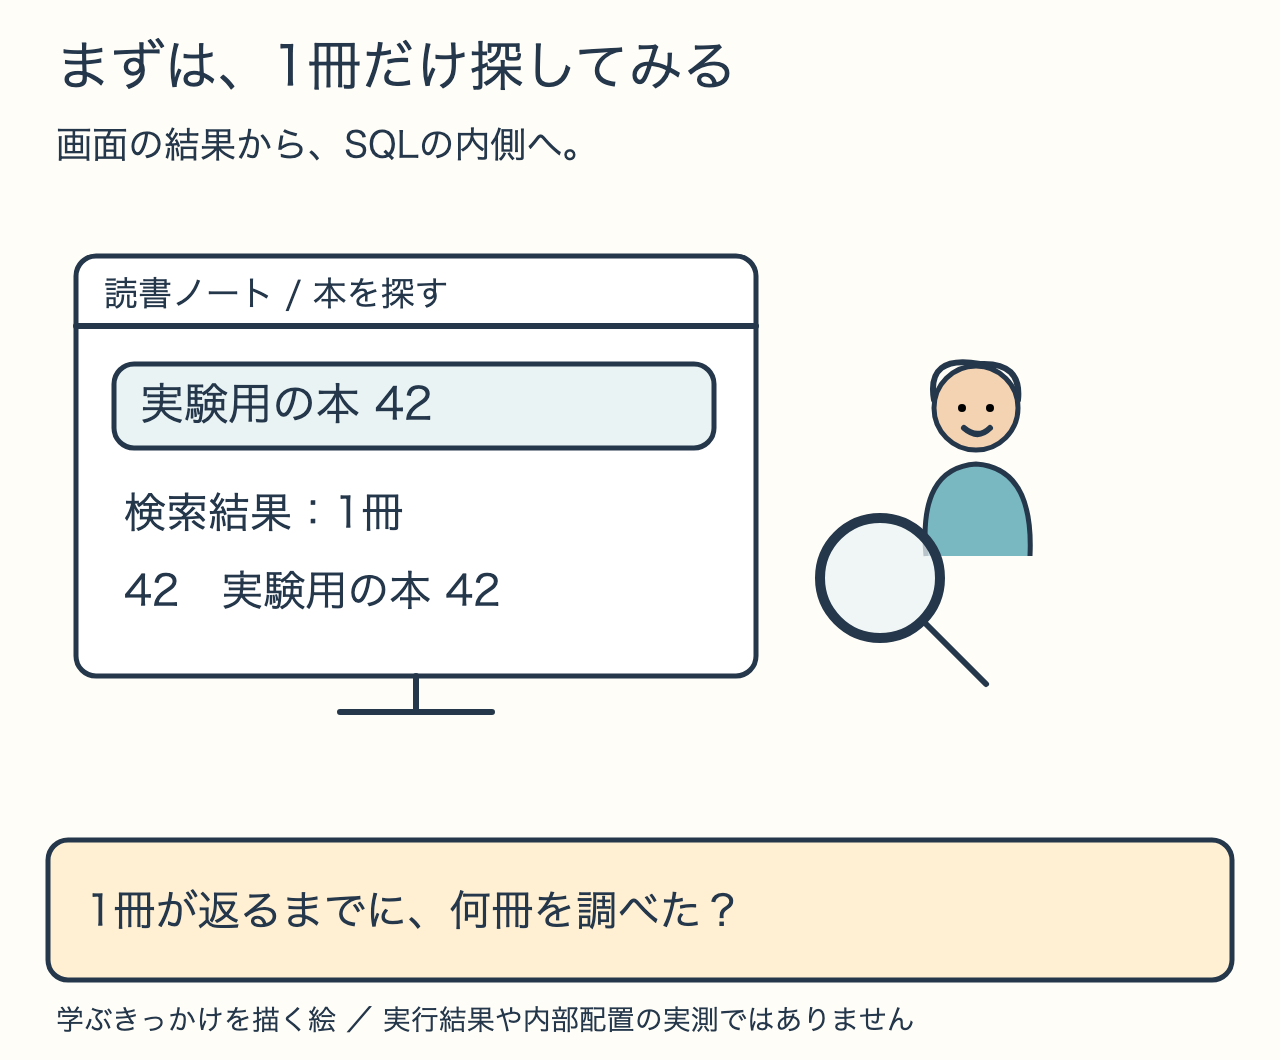
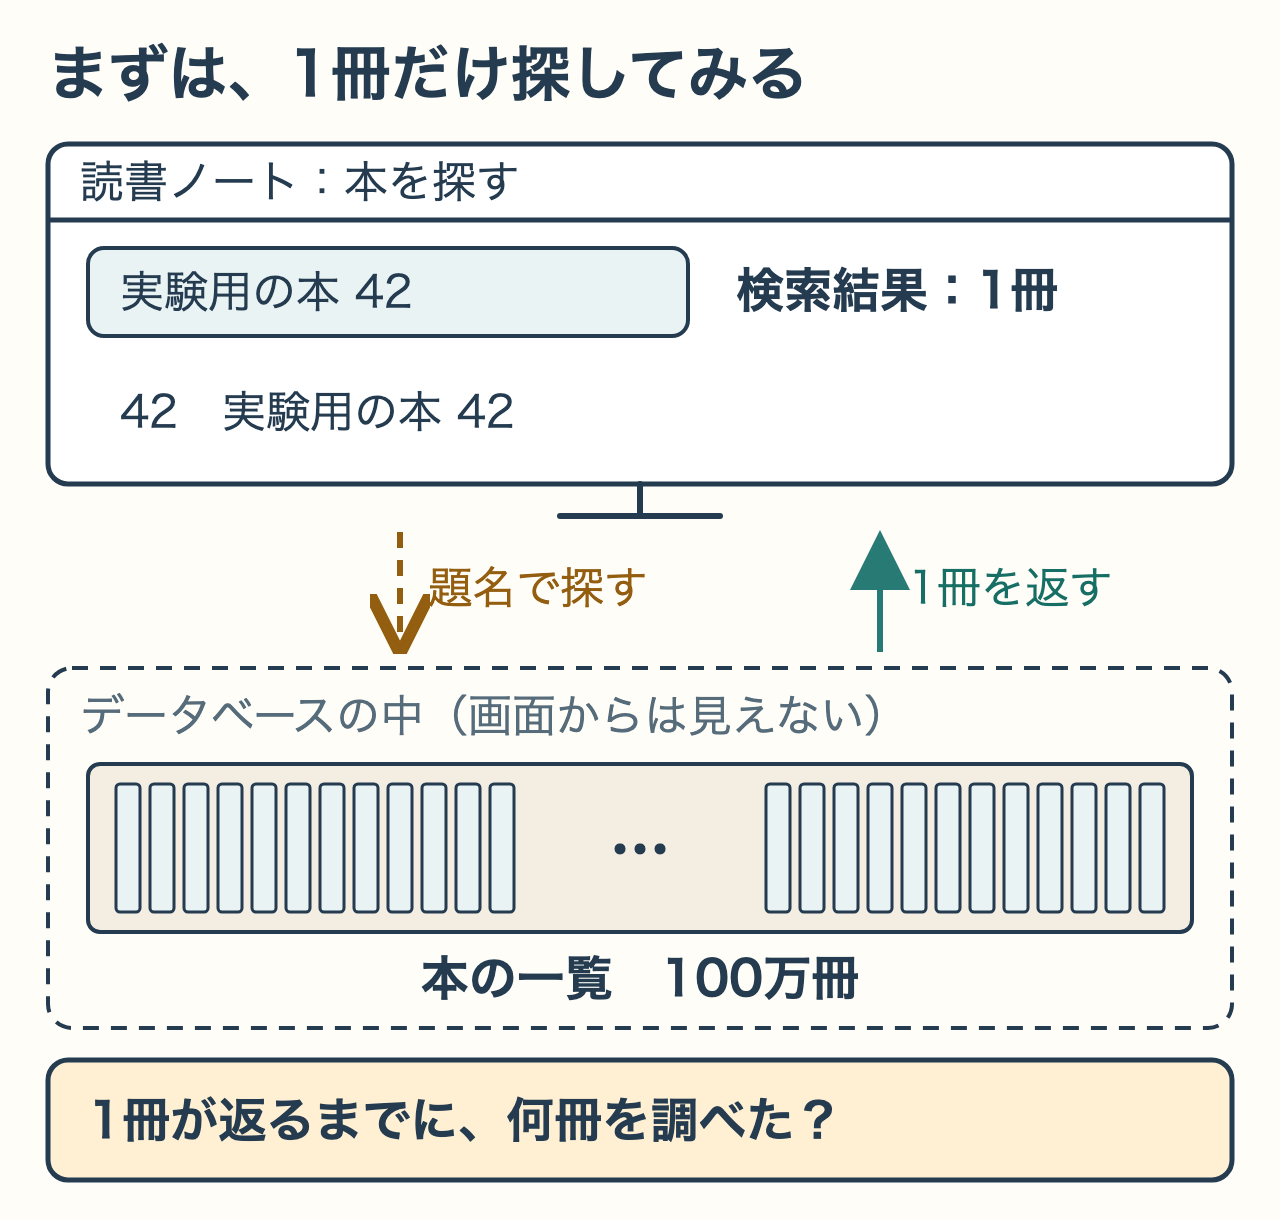
docs(query-journey): 第1章の場面の絵に、画面から見えない100万冊を描く
画面の1冊だけが描かれ、調べた件数に当たる絵がなかった。画面の下に、データベースの中の100万冊の棚を描き、「題名で探す」「1冊を返す」の矢印でつないだ。どの本を調べたかは答えになるので描かない。スマホで読めない注意書きと、飾りの人物・虫眼鏡を外した。

Changed region(s): [[0.0312, 0.0311, 0.9688, 0.9962], [0.4688, 0.6849, 0.5312, 0.716], [0.8438, 0.5292, 0.875, 0.5604]]

diff --git a/books/postgresql-query-journey/01-explain-basics.md b/books/postgresql-query-journey/01-explain-basics.md
@@ -12,8 +12,8 @@ title: "第1章：SQLの動きを観察する道具を手に入れる"
 
 検索画面では、見つかった本しか見えません。
 
-![まずは、1冊だけ探してみる](/images/postgresql-query-journey/01-search-window.png)
-*学ぶきっかけを描く、説明用の場面。*
+![検索画面には1冊だけが出ている。その裏のデータベースには本が100万冊あり、1冊を返すまでに何冊を調べたかを問う絵](/images/postgresql-query-journey/01-search-window.png)
+*画面に出るのは1冊。その裏に、100万冊の一覧があります。*
 
 画面に出た件数と、探すために調べた件数を分けて観察していきます。
 
